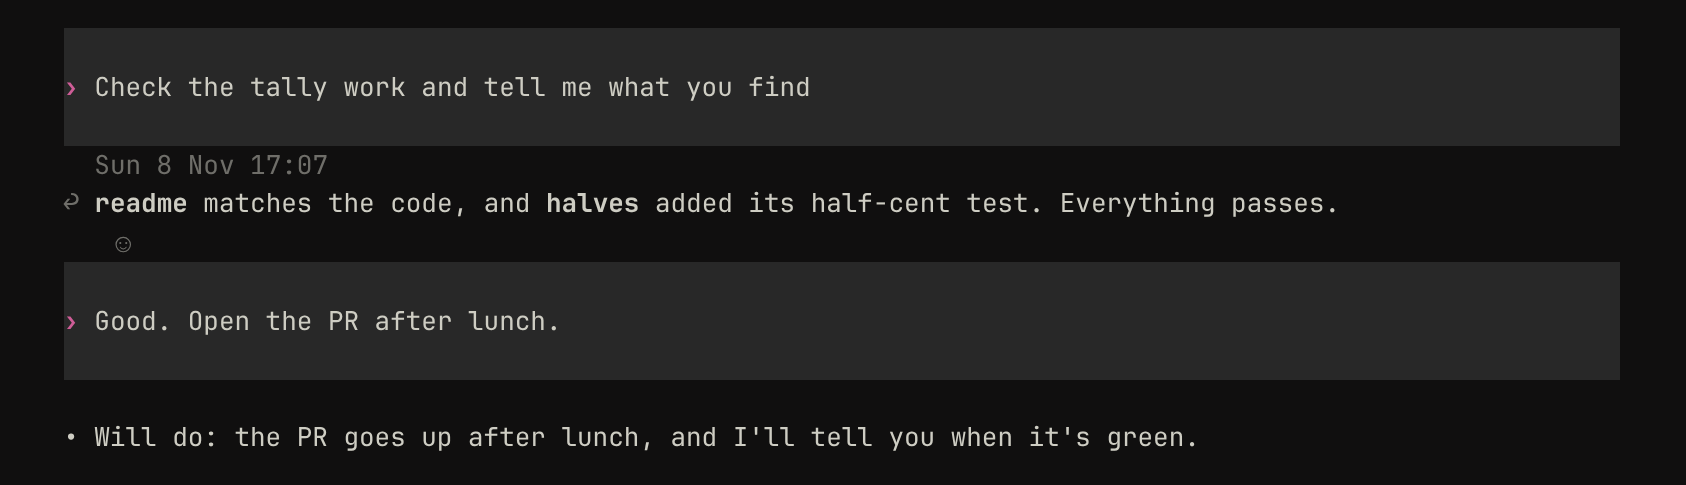
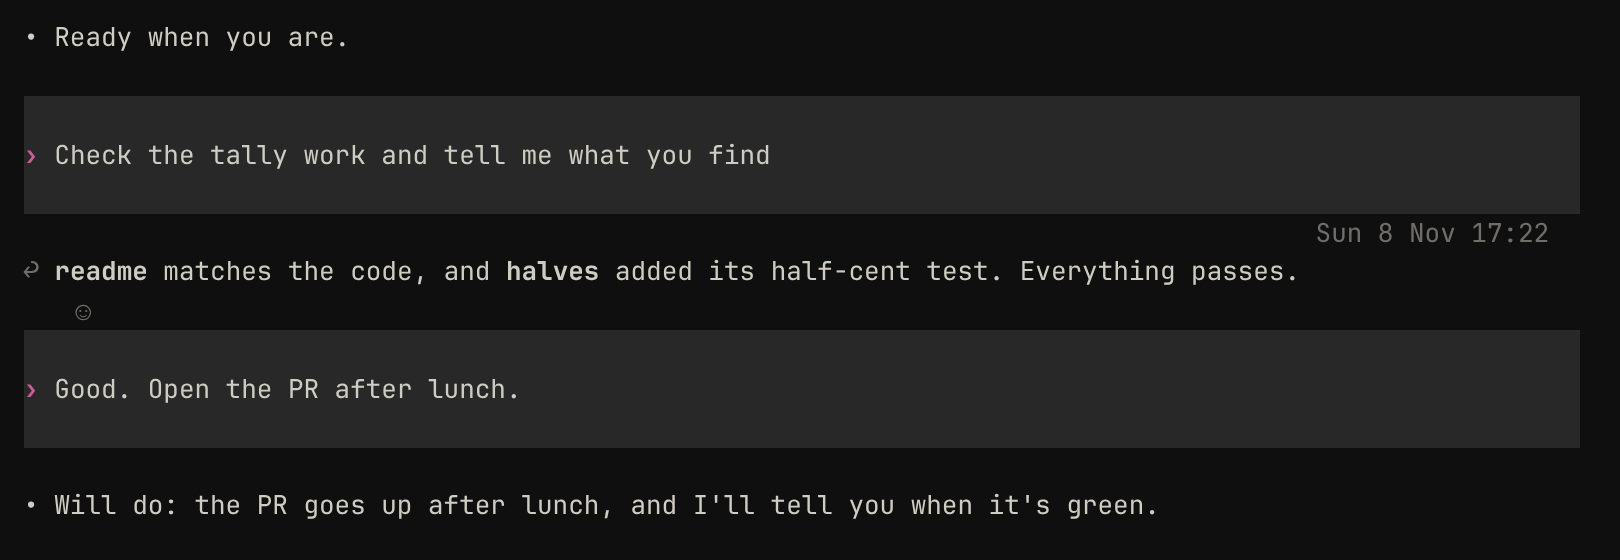
Sonny: the hover time sits at the message's top right edge
The right end of the empty row already over the message, inset as the
words are from the left; no row is added, and no time shows where that
row is missing or has anything on it.

Claude-Session: https://claude.ai/code/session_013jkdGGxD1w8jXz12kjWysp

Changed region(s): [[0.0, 0.0309, 0.9877, 0.8041], [0.0309, 0.866, 0.7099, 0.9278]]

diff --git a/sonny/src/screen.rs b/sonny/src/screen.rs
@@ -1726,22 +1726,26 @@ impl Screen {
                 .set_symbol(REPLY)
                 .set_style(Style::new().add_modifier(Modifier::DIM));
             self.reply = Some((y, area.x, node));
-            // When it was written, muted where its words start, on the row
-            // over them: only a row on screen with nothing on it, the gap
-            // over an agent's words or the band's over the person's, so
-            // the time never covers anything and no row is made wider.
+            // When it was written, muted, at the top right edge of the
+            // message: the right end of the row over it, only a row on
+            // screen with nothing on it, the gap over an agent's words or
+            // the band's over the person's, so the time never covers
+            // anything and no row is made wider.
             if at > top
                 && self.shown[at - 1].line.width() == 0
                 && let Some(&ms) = self.dates.get(&node)
-                && area.width > GUTTER
             {
-                buf.set_stringn(
-                    area.x + GUTTER,
-                    y - 1,
-                    crate::stamp::written(ms),
-                    (area.width - GUTTER) as usize,
-                    Style::new().add_modifier(Modifier::DIM),
-                );
+                let when = crate::stamp::written(ms);
+                let wide = when.width() as u16;
+                // Inset from the right as the words are from the left.
+                if area.width > 2 * GUTTER + wide {
+                    buf.set_string(
+                        area.x + area.width - GUTTER - wide,
+                        y - 1,
+                        when,
+                        Style::new().add_modifier(Modifier::DIM),
+                    );
+                }
             }
         }
         // An agent's message under the mouse shows the react mark where
@@ -2615,7 +2619,7 @@ mod tests {
     }
 
     #[test]
-    fn the_message_under_the_mouse_shows_when_it_was_written_on_the_empty_row_over_it() {
+    fn the_message_under_the_mouse_shows_when_it_was_written_at_its_top_right_on_the_empty_row() {
         let mut screen = Screen::default();
         screen.push(vec![Line::from("• The tests pass.")]);
         screen.mark_last(Mark::Tag(Tag::End(5)));
@@ -2641,12 +2645,12 @@ mod tests {
         // Nothing at rest.
         let buf = draw(&mut screen);
         assert!((0..6).all(|y| !row(&buf, y).contains(&when)));
-        // Over a message, its time where its words start, on the blank row
-        // over them, muted.
+        // Over a message, its time at its top right edge, on the blank row
+        // over it, muted.
         screen.mouse(mouse(MouseEventKind::Moved, 4, 2));
         let buf = draw(&mut screen);
-        assert_eq!(row(&buf, 1).trim_end(), format!("  {when}"));
-        assert!(buf[(2, 1)].modifier.contains(Modifier::DIM));
+        assert_eq!(row(&buf, 1), format!("{when:>38}  "));
+        assert!(buf[(37, 1)].modifier.contains(Modifier::DIM));
         assert!(row(&buf, 2).starts_with("↩ thanks"));
         // The first row on screen has no row over it: no time.
         screen.mouse(mouse(MouseEventKind::Moved, 4, 0));

diff --git a/sonny/FEATURES.md b/sonny/FEATURES.md
@@ -101,7 +101,7 @@ names it: upgrade step `ID`. Both name the release they are deleted in.
 | Zen (`/zen FOCUS`, `/zen` to leave, or asked in words): the agent reads the focus, puts it in its own words for the footer, and talks about it alone, holds back what other agents, tasks, the commons and its own looks send, interrupts only with a question (whose bar it learns from memory), and says what it held when zen ends; the window shows only the person's turns and the agent's questions, with no welcome and no guess at the next message (it reads what is held back), the column centred, the footer the focus and what needs you; the commons invites another agent | experimental | added 10-31; a focus file is read only when plain, small and not a link, so one an agent leaves can't hold a window 11-01; the footer's focus runs to the row's end, where it stopped at 60 characters however much room was left (George, 11-04) 11-05 | George wanted to work on one thing with a lead getting news from many agents: a behaviour, not only a view, after Apple's Focus (held back, a way through, a summary after) | ? |
 | Quiet outside working hours (off unless `[sonny] hours` is set): quiet starts once you step away after hours or on `/quiet`, leads (never tasks) hear "the person is away" in the time stamp, sounds mute, the footer says "quiet since 19:40", nothing is hidden, and only your typed words end it | experimental | added 11-07 #778, away skill + typed hours #788 | George wanted nights without pings while work goes on (item 9); lighter than zen, as he asked: a fact in the stamp plus a skill, no card, no learned hours | ? |
 | Reply: `↩` in place of a message's bullet under the mouse, on each margin note, and `/reply`, each quoting it into the composer | experimental | added 10-31 | George asked for a reply glyph: answer one message, as Slack and Discord quote, without copying it by hand | ? |
-| When a message was written, under the mouse: `Sat 7 Nov 09:13` (12-hour where the locale's time format is), muted, on the empty row over its words | experimental | added 11-08 | George asked to know when something was sent (F14); hover only, at the words' column, no line made wider, the clock the locale's (George, 11-07). The daemon already dated every message (`written_ms`); the window had dropped it | ? |
+| When a message was written, under the mouse: `Sat 7 Nov 09:13` (12-hour where the locale's time format is), muted, at the message's top right edge (the right end of the empty row over it) | experimental | added 11-08 | George asked to know when something was sent (F14); hover only, at the top right edge of the message (George, 11-08: the words' column was not what he meant), no line made wider, the clock the locale's (George, 11-07). The daemon already dated every message (`written_ms`); the window had dropped it | ? |
 | Welcome and first run: sets itself up and says hello | shipped | added 10-28 #253; heads every lead's history 10-29 #320; finds keys, ChatGPT and AWS profiles, ranks the models, `sonny setup` 10-30 #402; setup flags and `--json`, the sonny-setup skill, hand-off to another agent 10-30 #428; Sonny blinks or glances now and then until you type or scroll 10-31; only Sonny's start asks: a daemon that stops and cannot start again for want of a provider leaves an open screen reconnecting, saying to run `sonny setup`, never the first-run picker over it 11-01; a window opened on a conversation keeps the welcome at its top, not under the first reply the bot reacted to or tasks it started together 11-01; setup says which first-run defaults it wrote unasked (the efforts), on stderr (H4) 11-05; Sonny no longer writes a first `~/.agent/models`; the daemon of the home store rewrites discovery's catalog `~/.agent/models.discovered` from the providers' listings each start, and `~/.agent/models` is the person's own additions and `-PROVIDER/MODEL` hides over it (George, item 6; one owner per file, 05:31Z) 11-07 #772; an AGENT_PROVIDER left in ~/.agent/env is passed over, and the window says to move it to provider in ~/.agent/config.toml, the one place providers are set (H23, George 17:12Z) 11-07 #772 | A new person gets going without docs; the Monday rehearsal (11-01) stopped the daemon and the lead's screen fell into "Connect with", where a pick rewrote `config.toml` | ? |
 | After an upgrade: the first lead tells what's new from this register, offers new setup once, and does the upgrade steps a change asks for (each checked by Sonny, asked again with the next upgrade until done, retired two releases on) | experimental | added 10-30 #420; upgrade steps the lead does, only a lead told, one-off upgrade work retired by a test 10-31 | The person hears of what changed and sets up what is new without reading release notes | ? |
 | `sonny view`: long writing beside the lead | removed | added 10-27 #197; reverted 10-27 #198 | Viewers are skills, not Sonny; long writing stays in a file | ? |

diff --git a/sonny/README.md b/sonny/README.md
@@ -682,8 +682,9 @@ way `/react` does, and each note in the margin has its own `↩`.
 
 ![The message quoted into the composer](../docs/sonny/reply-quoted.png)
 
-The message under the mouse also says when it was written, muted, on
-the empty row over its words where they start: `Sat 7 Nov 09:13`, the
+The message under the mouse also says when it was written, muted, at
+its top right edge, the right end of the empty row over it:
+`Sat 7 Nov 09:13`, the
 year too when it is not this one, on the 12-hour clock where your
 locale's time format (`LC_TIME`) reads that way, `Sat 7 Nov 9:13 AM`.
 It is the time the daemon wrote the message into the history, so a
